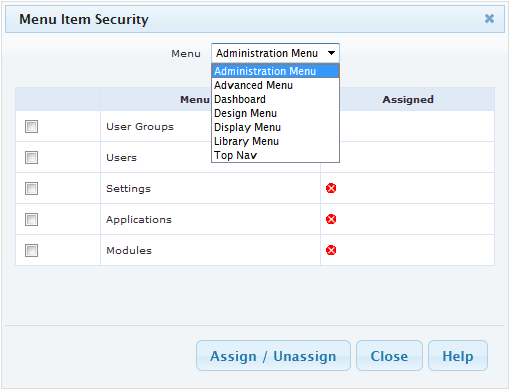
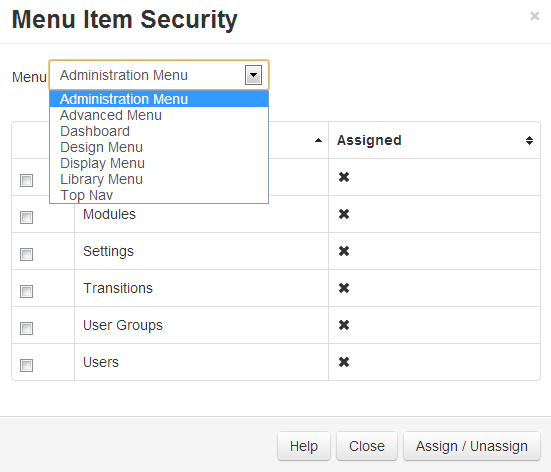
[manual] New images in user section for permissions (page and menu). New section for theming.

diff --git a/server/manual/content/users/menu_page_security.php b/server/manual/content/users/menu_page_security.php
@@ -1,59 +1,74 @@
+<?php
+/*
+ * Xibo - Digitial Signage - http://www.xibo.org.uk
+ * Copyright (C) 2006-2013 Daniel Garner
+ *
+ * This file is part of Xibo.
+ *
+ * Xibo is free software: you can redistribute it and/or modify
+ * it under the terms of the GNU Affero General Public License as published by
+ * the Free Software Foundation, either version 3 of the License, or
+ * any later version. 
+ *
+ * Xibo is distributed in the hope that it will be useful,
+ * but WITHOUT ANY WARRANTY; without even the implied warranty of
+ * MERCHANTABILITY or FITNESS FOR A PARTICULAR PURPOSE.  See the
+ * GNU Affero General Public License for more details.
+ *
+ * You should have received a copy of the GNU Affero General Public License
+ * along with Xibo.  If not, see <http://www.gnu.org/licenses/>.
+ */ 
+defined('XIBO') or die("Sorry, you are not allowed to directly access this page.<br /> Please press the back button in your browser.");
+?>
+<h1>Page &amp; Menu Security</h1>
 
-		<h2>Page &amp; Menu Security</h2>
-		<p><?php echo PRODUCT_NAME; ?> system adminstrator has full control on access right for each user/group on the system. The security components 
-    	that are assigned/unassigned to the user/group determine the permissions of the individual or 
-    	users belonging to that group.</p>
-	
-		<p>The list of components available is managed by the <?php echo PRODUCT_NAME; ?> software and cannot be changed.</p>
-	
-		<p>Editing which components are assigned to is done by ticking the checkboxes next to the assignment to be changed.<br />
-    	Note: It is a toggle operation, therefore if the assignment is "unassigned" it will become "assigned" and visa versa.
-		Currently assigned rows are indicated with a green mark and unassigned with a red mark.</p>	  
+<p><?php echo PRODUCT_NAME; ?> system adminstrator has full control on access right for each user/group on the system. The security components 
+that are assigned/unassigned to the user/group determine the permissions of the individual or 
+users belonging to that group.</p>
 
-    
-    	<a name="Page_Security" id="Page_Security"></a><h3>Page Security</h3>
-		<p>Click "Page Security" button for the user you want to edit. A "Page Security" form is loaded for editing.</p>
+<p>The list of components available is managed by the <?php echo PRODUCT_NAME; ?> software and cannot be changed.</p>
 
-    	<p><img alt="User Page Security" src="content/users/user_page_security.png"
-	   	style="display: block; text-align: center; margin-left: auto; margin-right: auto"
-	   	width="510" height="390"></p>
+<p>Editing which components are assigned to is done by ticking the checkboxes next to the assignment to be changed.<br />
+Note: It is a toggle operation, therefore if the assignment is "unassigned" it will become "assigned" and visa versa.
+Currently assigned rows are indicated with a green mark and unassigned with a red mark.</p>	  
 
-    	<p>User access to the following pages can be individually enabled/disabled. Check one or more items 
-    	 and click "Assign/Unassign" button to toggle.</p>
-    	<ul>
-			<li>Schedule</li>
-			<li>Homepage and Login</li>
-			<li>Layouts</li>
-			<li>Content</li>
-			<li>Displays</li>
-			<li>Users and Groups</li>
-			<li>Report</li>
-			<li>License and Settings</li>
-			<li>Updates</li>
-			<li>Template</li>
-			<li>Web Services</li>
-			<li>DataSets</li>
-		</ul>
+<h3 id="Page_Security">Page Security</h3>
 
-		<a name="Menu_Security" id="Menu_Security"></a><h3>Menu Security</h3>
-		<p>To add a user click on the "Add User" button found at the top left of the User Administration page. Fill in <strong>all</strong> the 
-		fields and click "Save" to add the user.</p>
+<p>Click "Page Security" button for the user you want to edit. A "Page Security" form is loaded for editing.</p>
 
-	  	<p><img alt="User Menu Security" src="content/users/user_menu_security.png"
-	   style="display: block; text-align: center; margin-left: auto; margin-right: auto"
-	   width="510" height="390"></p>
-     
-   		<p>User view to the following menus can be individually enabled/disabled. First select the Navigation Menu, then check one or more of 
-    	the sub-category menu items and click "Assign/Unassign" button to toggle.</p>
-    	<ul>
-			<li>Administration Menu</li>
-			<li>Advanced Menu</li>
-			<li>Dashboard</li>
-			<li>Design Menu</li>
-			<li>Display Menu</li>
-			<li>Library Menu</li>
-			<li>Top Nav</li>
-		</ul>
-    
+<p><img class="img-thumbnail" alt="User Page Security" src="content/users/user_page_security.png"></p>
 
+<p>User access to the following pages can be individually enabled/disabled. Check one or more items and click "Assign/Unassign" button to toggle.</p>
+<ul>
+	<li>Schedule</li>
+	<li>Homepage and Login</li>
+	<li>Layouts</li>
+	<li>Content</li>
+	<li>Displays</li>
+	<li>Users and Groups</li>
+	<li>Report</li>
+	<li>License and Settings</li>
+	<li>Updates</li>
+	<li>Template</li>
+	<li>Web Services</li>
+	<li>DataSets</li>
+</ul>
 
+<h3 id="Menu_Security">Menu Security</h3>
+
+<p>To add a user click on the "Add User" button found at the top left of the User Administration page. Fill in <strong>all</strong> the 
+fields and click "Save" to add the user.</p>
+
+<p><img class="img-thumbnail" alt="User Menu Security" src="content/users/user_menu_security.png"></p>
+
+<p>User view to the following menus can be individually enabled/disabled. First select the Navigation Menu, then check one or more of the sub-category menu items and click "Assign/Unassign" button to toggle.</p>
+
+<ul>
+	<li>Administration Menu</li>
+	<li>Advanced Menu</li>
+	<li>Dashboard</li>
+	<li>Design Menu</li>
+	<li>Display Menu</li>
+	<li>Library Menu</li>
+	<li>Top Nav</li>
+</ul>

diff --git a/server/manual/content/admin/theme.php b/server/manual/content/admin/theme.php
@@ -1,0 +1,45 @@
+<?php
+/*
+ * Xibo - Digitial Signage - http://www.xibo.org.uk
+ * Copyright (C) 2006-2013 Daniel Garner
+ *
+ * This file is part of Xibo.
+ *
+ * Xibo is free software: you can redistribute it and/or modify
+ * it under the terms of the GNU Affero General Public License as published by
+ * the Free Software Foundation, either version 3 of the License, or
+ * any later version. 
+ *
+ * Xibo is distributed in the hope that it will be useful,
+ * but WITHOUT ANY WARRANTY; without even the implied warranty of
+ * MERCHANTABILITY or FITNESS FOR A PARTICULAR PURPOSE.  See the
+ * GNU Affero General Public License for more details.
+ *
+ * You should have received a copy of the GNU Affero General Public License
+ * along with Xibo.  If not, see <http://www.gnu.org/licenses/>.
+ */ 
+defined('XIBO') or die("Sorry, you are not allowed to directly access this page.<br /> Please press the back button in your browser.");
+?>
+<h1>Theme <small>CMS themes</small></h1>
+
+<p>The CMS has a theme engine which currently covers 90% of the application. The theme engine has been designed with the principle of inheritance in mind, meaning that any resource requested by the CMS is passed through the currently active theme and if that theme does not contain the resource, the default theme resource is served.</p>
+
+<p>This allows for a few minor modifications to have a majour impact on the User Interface.</p>
+
+<p>Themes are modelled as sub-folders under the "theme" folder. The theme folder is contained in the root CMS installation folder. The default theme exists in a folder called "default".</p>
+
+<p><img class="img-thumbnail" alt="Theme folder structure" src="content/admin/theme_folder_structure.png"></p>
+
+<p>Each theme has a simple config file called <code>config.php</code> which sets the title for the theme and some other meta data, for example:</p>
+<pre>
+	$config = array(
+		'theme_name' => 'Xibo Default Theme',
+		'theme_title' => 'Xibo Digital Signage',
+		'app_name' => 'Xibo',
+		'theme_url' => 'http://www.xibo.org.uk'
+	);
+</pre>
+
+<p>The current CMS theme is activated in the General CMS Settings and is called GLOBAL_THEME_NAME.</p>
+
+<p class="alert alert-info">A typical use case for theming is to change the logo and application name. This can be done with a new sub-folder, a <code>config.php</code> file and a new logo image file in the img sub folder.</p>

diff --git a/server/manual/content/users/user_permissions.php b/server/manual/content/users/user_permissions.php
@@ -22,10 +22,8 @@ defined('XIBO') or die("Sorry, you are not allowed to directly access this page.
 ?>
 		
 <h1>Permissions Model</h1>
-<h2>Introducing an Improved Permissions Model</h2>
 
-<p>This section will take a look at the improvements made to the permissions model in <?php echo PRODUCT_NAME; ?>. <?php echo PRODUCT_NAME; ?> has improved the permissions model 
-in one key way - allowed users and administrators to set view, edit and delete permissions on:</p>
+<p>This section will take a look at the permissions model in <?php echo PRODUCT_NAME; ?>, which allows users and administrators to set view, edit and delete permissions on:</p>
 
 <ul>
     <li>Library Media</li>
@@ -37,13 +35,11 @@ in one key way - allowed users and administrators to set view, edit and delete p
     <li>Displays</li>
 </ul>
 
+<p>All of these items have the permissions set in the same way, via a simple to use dialog showing groups and users. In addition to this all permissions are validated with each form load, or save button clicked so you can guarentee "real time" modifications to the permissions on items.</p>
+
 <p><img class="img-thumbnail" alt="User Permissions" src="content/users/user_permissions.png"></p>
 
-<p>All of these items have the permissions set in the same way, via a simple to use dialog showing groups and users. 
-In addition to this all permissions are validated with each form load, or save button clicked so you can guarentee 
-"real time" modifications to the permissions on items.</p>
-
-<p>Here are some key facts about the new system:</p>
+<p>Key facts:</p>
 <ul>
 <li>The Highest permission is used (if a user belongs to 2 groups, one has edit permissions and the other doesn't, 
 the user will have edit permissions)</li>
@@ -52,7 +48,6 @@ the user will have edit permissions)</li>
 no owner, this is super admin only)</li>
 </ul>
 
-<p>These permissions are then reflected in all tables, forms, lists and on the layout designer. The improved permissions hopefully 
-will make it easier to manage <?php echo PRODUCT_NAME; ?>, particularly in environments where there are many users accessing the system.</p> 
+<p>These permissions are then reflected in all tables, forms, lists and on the layout designer.</p> 
 
 

diff --git a/server/manual/content/toc_developer.php b/server/manual/content/toc_developer.php
@@ -1,9 +1,10 @@
 <div class="list-group">
 	<a class="list-group-item" href="index.php?toc=developer&p=admin/overview">Overview</a>
-	<a class="list-group-item" href="index.php?toc=developer&p=admin/contributing">Contributing</a>
 	<a class="list-group-item" href="index.php?toc=developer&p=admin/advanced">Troubleshooting</a>
-	<a class="list-group-item" href="index.php?toc=developer&p=admin/release_notes">Release Notes</a>
+	<a class="list-group-item" href="index.php?toc=developer&p=admin/theme">Theme</a>
 	<a class="list-group-item" href="index.php?toc=developer&p=admin/api"><?php echo PRODUCT_NAME; ?> API</a>
+	<a class="list-group-item" href="index.php?toc=developer&p=admin/release_notes">Release Notes</a>
+	<a class="list-group-item" href="index.php?toc=developer&p=admin/contributing">Contributing</a>
 	<a class="list-group-item" href="index.php?toc=developer&p=admin/blueprints"><?php echo PRODUCT_NAME; ?> Blueprints</a>
 	<a class="list-group-item" href="index.php?toc=developer&p=admin/database_model"><?php echo PRODUCT_NAME; ?> CMS Database Model</a>
 </div>

diff --git a/server/manual/content/routes.php b/server/manual/content/routes.php
@@ -88,6 +88,7 @@ $allowed_routes = array(
 		'admin/display_wakeonlan',
 		'admin/overview',
 		'admin/api',
+		'admin/theme',
 		'admin/blueprints',
 		'admin/advanced',
 		'admin/contributing',
